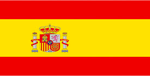
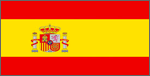
flags border, pjName italicized, ca-03 removed

Changed region(s): [[0.0, 0.0, 1.0, 1.0]]

diff --git a/js/finalists.js b/js/finalists.js
@@ -58,15 +58,13 @@ var teamNameRowRightBD = [
 // CA - templates
 var teamIdForRowCA = [
     ['01', '02'],
-    ['03', '04'],
-    ['05', '']
+    ['04', '05']
 ];
 
 
 var pjNameRowCA = [
     ['CampusSafe, Helping Students to Get Back to Schools Safely', 'Students Personal Data Storage'],
-    ['', 'Gainbow'],
-    ['Increase transparency in the world of policing', '']
+    ['Gainbow', 'Increase transparency in the world of policing']
 ];
 
 
@@ -75,12 +73,8 @@ var teamNameRowCA = [
         'Rumi'
     ],
     [
-        'Blossom Block ',
-        'GBOW'
-    ],
-    [
-        'justBOT',
-        ''
+        'GBOW',
+        'justBOT'
     ]
 
 ];
@@ -425,7 +419,7 @@ var teamNameRowVN = [
 // var tw = document.getElementById('tw');
 // var cn = document.getElementById('cn');
 
-for (let i = 0; i <= 2; i++) {
+for (let i = 0; i <2; i++) {
     ca.innerHTML += (
         '<div class="row mt-4" id="caRow' + i + '">' +
         '</div>'
@@ -434,6 +428,7 @@ for (let i = 0; i <= 2; i++) {
     var caRowX = document.getElementById('caRow' + i);
 
     for (let j = 0; j <= 1; j++) {
+
         if (teamNameRowCA[i][j] === '') {} else {
             caRowX.innerHTML += (
                 '<div class="col-md-6 col-sm-12" onclick="viewRepresentativesCA(' + teamIdForRowCA[i][j] + ')" style="cursor:pointer">' +
@@ -443,7 +438,7 @@ for (let i = 0; i <= 2; i++) {
                 '</div>' +
                 '<div class="col-8 my-auto ">' +
                 '<p class="mx-0 my-0 fs-14 textBlack line-h-1 w-100"><b>' + teamNameRowCA[i][j] + '</b> (CA-' + teamIdForRowCA[i][j] + ')</p>' +
-                '<p class="mx-0 my-0 fs-12 textBlack line-h-1 w-100">' + pjNameRowCA[i][j] + '</p>' +
+                '<p class="mx-0 my-0 fs-12 textBlack fs-12-italicized line-h-1 w-100">' + pjNameRowCA[i][j] + '</p>' +
                 '</div>' +
                 '</div>'
             );
@@ -462,9 +457,9 @@ for (let i = 0; i < 6; i++) {
         '</div>' +
         '<div class="col-8 my-auto ">' +
         '<p class="mx-0 my-0 fs-14 textBlack line-h-1 w-100"><b>' + teamNameRowLeftHK[i] + '</b> (HK-' + teamIdForRowLeft[i] + ')</p>' +
-        '<p class="mx-0 my-0 fs-12 textBlack line-h-1 w-100">' + pjNameRowLeftHK[i] + '</p>' +
+        '<p class="mx-0 my-0 fs-12 textBlack fs-12-italicized line-h-1 w-100">' + pjNameRowLeftHK[i] + '</p>' +
         // '<p class="mx-0 my-0 fs-10 textBlack w-100"> HK-' + teamIdForRowLeftHK[i] + '</p>' +
-        // '<p class="mx-0 my-0 fs-12 textBlack w-100">'+uniRowLeft[i]+'</p>' +
+        // '<p class="mx-0 my-0 fs-12 textBlack fs-12-italicized w-100">'+uniRowLeft[i]+'</p>' +
         '</div>' +
         '</div>' +
         '</div>' +
@@ -476,9 +471,9 @@ for (let i = 0; i < 6; i++) {
         '</div>' +
         '<div class="col-8 my-auto ">' +
         '<p class="mx-0 my-0 fs-14 textBlack line-h-1 w-100"><b>' + teamNameRowRightHK[i] + '</b> (HK-' + teamIdForRowRight[i] + ')</p>' +
-        '<p class="mx-0 my-0 fs-12 textBlack line-h-1 w-100">' + pjNameRowRightHK[i] + '</p>' +
+        '<p class="mx-0 my-0 fs-12 textBlack fs-12-italicized line-h-1 w-100">' + pjNameRowRightHK[i] + '</p>' +
         // '<p class="mx-0 my-0 fs-10 textBlack w-100"> HK-' + teamIdForRowRightHK[i] + '</p>' +
-        // '<p class="mx-0 my-0 fs-12 textBlack w-100">'+uniRowRight[i]+'</p>' +
+        // '<p class="mx-0 my-0 fs-12 textBlack fs-12-italicized w-100">'+uniRowRight[i]+'</p>' +
         '</div>' +
         '</div>' +
         '</div>' +
@@ -496,9 +491,9 @@ for (let i = 0; i < 6; i++) {
         '</div>' +
         '<div class="col-8 my-auto ">' +
         '<p class="mx-0 my-0 fs-14 textBlack line-h-1 w-100"><b>' + teamNameRowLeftBD[i] + '</b> (BD-' + teamIdForRowLeft[i] + ')</p>' +
-        '<p class="mx-0 my-0 fs-12 textBlack line-h-1 w-100">' + pjNameRowLeftBD[i] + '</p>' +
+        '<p class="mx-0 my-0 fs-12 textBlack fs-12-italicized line-h-1 w-100">' + pjNameRowLeftBD[i] + '</p>' +
         // '<p class="mx-0 my-0 fs-10 textBlack w-100"> HK-' + teamIdForRowLeftHK[i] + '</p>' +
-        // '<p class="mx-0 my-0 fs-12 textBlack w-100">'+uniRowLeft[i]+'</p>' +
+        // '<p class="mx-0 my-0 fs-12 textBlack fs-12-italicized w-100">'+uniRowLeft[i]+'</p>' +
         '</div>' +
         '</div>' +
         '</div>' +
@@ -510,9 +505,9 @@ for (let i = 0; i < 6; i++) {
         '</div>' +
         '<div class="col-8 my-auto ">' +
         '<p class="mx-0 my-0 fs-14 textBlack line-h-1 w-100"><b>' + teamNameRowRightBD[i] + '</b> (BD-' + teamIdForRowRight[i] + ')</p>' +
-        '<p class="mx-0 my-0 fs-12 textBlack line-h-1 w-100">' + pjNameRowRightBD[i] + '</p>' +
+        '<p class="mx-0 my-0 fs-12 textBlack fs-12-italicized line-h-1 w-100">' + pjNameRowRightBD[i] + '</p>' +
         // '<p class="mx-0 my-0 fs-10 textBlack w-100"> HK-' + teamIdForRowRightHK[i] + '</p>' +
-        // '<p class="mx-0 my-0 fs-12 textBlack w-100">'+uniRowRight[i]+'</p>' +
+        // '<p class="mx-0 my-0 fs-12 textBlack fs-12-italicized w-100">'+uniRowRight[i]+'</p>' +
         '</div>' +
         '</div>' +
         '</div>' +
@@ -530,9 +525,9 @@ for (let i = 0; i < 1; i++) {
         '</div>' +
         '<div class="col-8 my-auto ">' +
         '<p class="mx-0 my-0 fs-14 textBlack line-h-1 w-100"><b>' + teamNameRowLeftTW[i] + '</b> (TW-' + teamIdForRowLeft[i] + ')</p>' +
-        '<p class="mx-0 my-0 fs-12 textBlack line-h-1 w-100">' + pjNameRowLeftTW[i] + '</p>' +
+        '<p class="mx-0 my-0 fs-12 textBlack fs-12-italicized line-h-1 w-100">' + pjNameRowLeftTW[i] + '</p>' +
         // '<p class="mx-0 my-0 fs-10 textBlack w-100"> HK-' + teamIdForRowLeftHK[i] + '</p>' +
-        // '<p class="mx-0 my-0 fs-12 textBlack w-100">'+uniRowLeft[i]+'</p>' +
+        // '<p class="mx-0 my-0 fs-12 textBlack fs-12-italicized w-100">'+uniRowLeft[i]+'</p>' +
         '</div>' +
         '</div>' +
         '</div>' +
@@ -545,9 +540,9 @@ for (let i = 0; i < 1; i++) {
         '</div>' +
         '<div class="col-8 my-auto ">' +
         '<p class="mx-0 my-0 fs-14 textBlack line-h-1 w-100"><b>' + teamNameRowRightTW[i] + '</b> (TW-' + teamIdForRowRight[i] + ')</p>' +
-        '<p class="mx-0 my-0 fs-12 textBlack line-h-1 w-100">' + pjNameRowRightTW[i] + '</p>' +
+        '<p class="mx-0 my-0 fs-12 textBlack fs-12-italicized line-h-1 w-100">' + pjNameRowRightTW[i] + '</p>' +
         // '<p class="mx-0 my-0 fs-10 textBlack w-100"> HK-' + teamIdForRowRightHK[i] + '</p>' +
-        // '<p class="mx-0 my-0 fs-12 textBlack w-100">'+uniRowRight[i]+'</p>' +
+        // '<p class="mx-0 my-0 fs-12 textBlack fs-12-italicized w-100">'+uniRowRight[i]+'</p>' +
         '</div>' +
         '</div>' +
         '</div>' +
@@ -574,7 +569,7 @@ for (let i = 0; i <= Math.ceil(teamNameRowCN.length / 2); i++) {
                 '</div>' +
                 '<div class="col-8 my-auto ">' +
                 '<p class="mx-0 my-0 fs-14 textBlack line-h-1 w-100"><b>' + teamNameRowCN[i][j] + '</b> (CN-' + teamIdForRowCN[i][j] + ')</p>' +
-                '<p class="mx-0 my-0 fs-12 textBlack line-h-1 w-100">' + pjNameRowCN[i][j] + '</p>' +
+                '<p class="mx-0 my-0 fs-12 textBlack fs-12-italicized line-h-1 w-100">' + pjNameRowCN[i][j] + '</p>' +
                 '</div>' +
                 '</div>'
             );
@@ -603,7 +598,7 @@ for (let i = 0; i <= 1; i++) {
                 '</div>' +
                 '<div class="col-8 my-auto ">' +
                 '<p class="mx-0 my-0 fs-14 textBlack line-h-1 w-100"><b>' + teamNameRowPH[i][j] + '</b> (PH-' + teamIdForRowPH[i][j] + ')</p>' +
-                '<p class="mx-0 my-0 fs-12 textBlack line-h-1 w-100">' + pjNameRowPH[i][j] + '</p>' +
+                '<p class="mx-0 my-0 fs-12 textBlack fs-12-italicized line-h-1 w-100">' + pjNameRowPH[i][j] + '</p>' +
                 '</div>' +
                 '</div>'
             );
@@ -630,7 +625,7 @@ for (let i = 0; i < 1; i++) {
                 '</div>' +
                 '<div class="col-8 my-auto ">' +
                 '<p class="mx-0 my-0 fs-14 textBlack line-h-1 w-100"><b>' + teamNameRowMN[i][j] + '</b> (MN-' + teamIdForRowMN[i][j] + ')</p>' +
-                '<p class="mx-0 my-0 fs-12 textBlack line-h-1 w-100">' + pjNameRowMN[i][j] + '</p>' +
+                '<p class="mx-0 my-0 fs-12 textBlack fs-12-italicized line-h-1 w-100">' + pjNameRowMN[i][j] + '</p>' +
                 '</div>' +
                 '</div>'
             );
@@ -656,7 +651,7 @@ for (let i = 0; i < 1; i++) {
                 '</div>' +
                 '<div class="col-8 my-auto ">' +
                 '<p class="mx-0 my-0 fs-14 textBlack line-h-1 w-100"><b>' + teamNameRowNL[i][j] + '</b> (NL-' + teamIdForRowNL[i][j] + ')</p>' +
-                '<p class="mx-0 my-0 fs-12 textBlack line-h-1 w-100">' + pjNameRowNL[i][j] + '</p>' +
+                '<p class="mx-0 my-0 fs-12 textBlack fs-12-italicized line-h-1 w-100">' + pjNameRowNL[i][j] + '</p>' +
                 '</div>' +
                 '</div>'
             );
@@ -682,7 +677,7 @@ for (let i = 0; i < 1; i++) {
                 '</div>' +
                 '<div class="col-8 my-auto ">' +
                 '<p class="mx-0 my-0 fs-14 textBlack line-h-1 w-100"><b>' + teamNameRowES[i][j] + '</b> (ES-' + teamIdForRowES[i][j] + ')</p>' +
-                '<p class="mx-0 my-0 fs-12 textBlack line-h-1 w-100">' + pjNameRowES[i][j] + '</p>' +
+                '<p class="mx-0 my-0 fs-12 textBlack fs-12-italicized line-h-1 w-100">' + pjNameRowES[i][j] + '</p>' +
                 '</div>' +
                 '</div>'
             );
@@ -708,7 +703,7 @@ for (let i = 0; i < 1; i++) {
                 '</div>' +
                 '<div class="col-8 my-auto ">' +
                 '<p class="mx-0 my-0 fs-14 textBlack line-h-1 w-100"><b>' + teamNameRowUK[i][j] + '</b> (GB-' + teamIdForRowUK[i][j] + ')</p>' +
-                '<p class="mx-0 my-0 fs-12 textBlack line-h-1 w-100">' + pjNameRowUK[i][j] + '</p>' +
+                '<p class="mx-0 my-0 fs-12 textBlack fs-12-italicized line-h-1 w-100">' + pjNameRowUK[i][j] + '</p>' +
                 '</div>' +
                 '</div>'
             );
@@ -734,7 +729,7 @@ for (let i = 0; i <= 2; i++) {
                 '</div>' +
                 '<div class="col-8 my-auto ">' +
                 '<p class="mx-0 my-0 fs-14 textBlack line-h-1 w-100"><b>' + teamNameRowPL[i][j] + '</b> (PL-' + teamIdForRowPL[i][j] + ')</p>' +
-                '<p class="mx-0 my-0 fs-12 textBlack line-h-1 w-100">' + pjNameRowPL[i][j] + '</p>' +
+                '<p class="mx-0 my-0 fs-12 textBlack fs-12-italicized line-h-1 w-100">' + pjNameRowPL[i][j] + '</p>' +
                 '</div>' +
                 '</div>'
             );
@@ -760,7 +755,7 @@ for (let i = 0; i <= 1; i++) {
                 '</div>' +
                 '<div class="col-8 my-auto ">' +
                 '<p class="mx-0 my-0 fs-14 textBlack line-h-1 w-100"><b>' + teamNameRowUS[i][j] + '</b> (US-' + teamIdForRowUS[i][j] + ')</p>' +
-                '<p class="mx-0 my-0 fs-12 textBlack line-h-1 w-100">' + pjNameRowUS[i][j] + '</p>' +
+                '<p class="mx-0 my-0 fs-12 textBlack fs-12-italicized line-h-1 w-100">' + pjNameRowUS[i][j] + '</p>' +
                 '</div>' +
                 '</div>'
             );
@@ -786,7 +781,7 @@ for (let i = 0; i < 1; i++) {
                 '</div>' +
                 '<div class="col-8 my-auto ">' +
                 '<p class="mx-0 my-0 fs-14 textBlack line-h-1 w-100"><b>' + teamNameRowTR[i][j] + '</b> (TR-' + teamIdForRowTR[i][j] + ')</p>' +
-                '<p class="mx-0 my-0 fs-12 textBlack line-h-1 w-100">' + pjNameRowTR[i][j] + '</p>' +
+                '<p class="mx-0 my-0 fs-12 textBlack fs-12-italicized line-h-1 w-100">' + pjNameRowTR[i][j] + '</p>' +
                 '</div>' +
                 '</div>'
             );
@@ -812,7 +807,7 @@ for (let i = 0; i < 1; i++) {
                 '</div>' +
                 '<div class="col-8 my-auto ">' +
                 '<p class="mx-0 my-0 fs-14 textBlack line-h-1 w-100"><b>' + teamNameRowTH[i][j] + '</b> (TH-' + teamIdForRowTH[i][j] + ')</p>' +
-                '<p class="mx-0 my-0 fs-12 textBlack line-h-1 w-100">' + pjNameRowTH[i][j] + '</p>' +
+                '<p class="mx-0 my-0 fs-12 textBlack fs-12-italicized line-h-1 w-100">' + pjNameRowTH[i][j] + '</p>' +
                 '</div>' +
                 '</div>'
             );
@@ -838,7 +833,7 @@ for (let i = 0; i <= 1; i++) {
                 '</div>' +
                 '<div class="col-8 my-auto ">' +
                 '<p class="mx-0 my-0 fs-14 textBlack line-h-1 w-100"><b>' + teamNameRowVN[i][j] + '</b> (VN-' + teamIdForRowVN[i][j] + ')</p>' +
-                '<p class="mx-0 my-0 fs-12 textBlack line-h-1 w-100">' + pjNameRowVN[i][j] + '</p>' +
+                '<p class="mx-0 my-0 fs-12 textBlack fs-12-italicized line-h-1 w-100">' + pjNameRowVN[i][j] + '</p>' +
                 '</div>' +
                 '</div>'
             );
@@ -886,7 +881,7 @@ function viewRepresentativesCA(index) {
     var teamNameCA = [
         'Blossom Block',
         'Rumi',
-        'Blossom Block ',
+        '',
         'GBOW',
         'justBOT',
     ];

diff --git a/2020EXPO/2020-IBCOL-Finalists/PL-12-representatives/Anonymous Student/index.html b/2020EXPO/2020-IBCOL-Finalists/PL-12-representatives/Anonymous Student/index.html
@@ -108,7 +108,7 @@
             <div class="row my-4">
                 <div class="col-md-6 col-sm-12 px-0 ">
                     <div class="w-100 left-sm-centre mb-4">
-                        <img src="" id="flag" class="my-2 flagshdw">
+                        <img src="" id="flag" class="my-2">
                     </div>
 
                     <div class="w-100 left-sm-centre">

diff --git a/2020EXPO/2020-IBCOL-Finalists/PL-12-representatives/Blockchain Society SGH 03/index.html b/2020EXPO/2020-IBCOL-Finalists/PL-12-representatives/Blockchain Society SGH 03/index.html
@@ -108,7 +108,7 @@
             <div class="row my-4">
                 <div class="col-md-6 col-sm-12 px-0 ">
                     <div class="w-100 left-sm-centre mb-4">
-                        <img src="" id="flag" class="my-2 flagshdw">
+                        <img src="" id="flag" class="my-2">
                     </div>
 
                     <div class="w-100 left-sm-centre">

diff --git a/2020EXPO/2020-IBCOL-Finalists/PL-12-representatives/Blockchain Society SGH/index.html b/2020EXPO/2020-IBCOL-Finalists/PL-12-representatives/Blockchain Society SGH/index.html
@@ -108,7 +108,7 @@
             <div class="row my-4">
                 <div class="col-md-6 col-sm-12 px-0 ">
                     <div class="w-100 left-sm-centre mb-4">
-                        <img src="" id="flag" class="my-2 flagshdw">
+                        <img src="" id="flag" class="my-2">
                     </div>
 
                     <div class="w-100 left-sm-centre">

diff --git a/2020EXPO/2020-IBCOL-Finalists/PL-12-representatives/E-voting for universities/index.html b/2020EXPO/2020-IBCOL-Finalists/PL-12-representatives/E-voting for universities/index.html
@@ -108,7 +108,7 @@
             <div class="row my-4">
                 <div class="col-md-6 col-sm-12 px-0 ">
                     <div class="w-100 left-sm-centre mb-4">
-                        <img src="" id="flag" class="my-2 flagshdw">
+                        <img src="" id="flag" class="my-2">
                     </div>
 
                     <div class="w-100 left-sm-centre">

diff --git a/2020EXPO/2020-IBCOL-Finalists/PL-12-representatives/Mariusz Bochenek/index.html b/2020EXPO/2020-IBCOL-Finalists/PL-12-representatives/Mariusz Bochenek/index.html
@@ -108,7 +108,7 @@
             <div class="row my-4">
                 <div class="col-md-6 col-sm-12 px-0 ">
                     <div class="w-100 left-sm-centre mb-4">
-                        <img src="" id="flag" class="my-2 flagshdw">
+                        <img src="" id="flag" class="my-2">
                     </div>
 
                     <div class="w-100 left-sm-centre">

diff --git a/2020EXPO/2020-IBCOL-Finalists/PL-12-representatives/Skorpion Szczecin Team/index.html b/2020EXPO/2020-IBCOL-Finalists/PL-12-representatives/Skorpion Szczecin Team/index.html
@@ -108,7 +108,7 @@
             <div class="row my-4">
                 <div class="col-md-6 col-sm-12 px-0 ">
                     <div class="w-100 left-sm-centre mb-4">
-                        <img src="" id="flag" class="my-2 flagshdw">
+                        <img src="" id="flag" class="my-2">
                     </div>
 
                     <div class="w-100 left-sm-centre">

diff --git a/css/finalists.css b/css/finalists.css
@@ -10,6 +10,10 @@
     font-size: 10px !important;
 }
 
+.flagBorder {
+    border: 1px #666 ;
+}
+
 @media only screen and (min-width: 992px) {
 
     .min-lg-text-align-right {

diff --git a/css/schedule.css b/css/schedule.css
@@ -30,6 +30,10 @@
     font-size: 12px;
 }
 
+.fs-12-italicized {
+    font-style: italic !important;
+}
+
 .fs-24 {
     font-size: 24px !important;
 }
